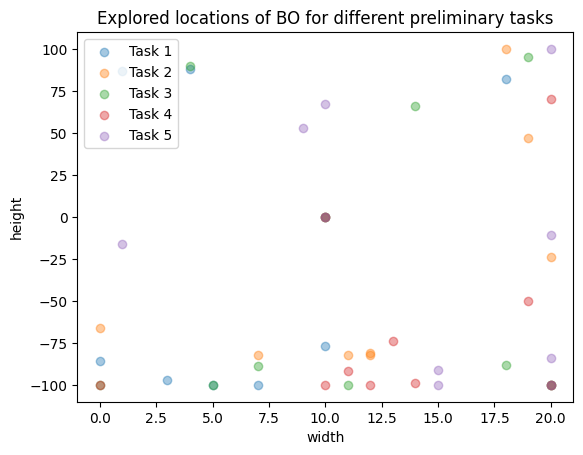
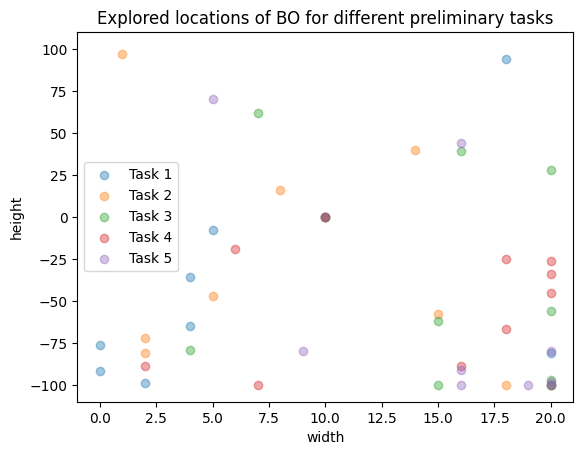
Updates to transfer learning tutorial and adding references to it elsewhere in documentation.

diff --git a/docs/source/tutorials/transfer_learning/transfer_learning_example.py b/docs/source/tutorials/transfer_learning/transfer_learning_example.py
@@ -140,6 +140,7 @@ if __name__ == "__main__":
 
     mode = "min"
     max_trials = 10
+    np.random.seed(1)
     # Use train_height backend for our tests
     entry_point = "../../../../examples/training_scripts/height_example/train_height.py"
 
@@ -149,7 +150,7 @@ if __name__ == "__main__":
         scheduler = init_scheduler(
             "BayesianOptimization",
             max_steps=max_steps,
-            seed=max_steps,
+            seed=np.random.randint(100),
             mode=mode,
             metric=METRIC_ATTR,
             transfer_learning_evaluations=None,
@@ -213,6 +214,21 @@ if __name__ == "__main__":
     """ Plot the configs tried for the transfer task """
     fig, ax = plt.subplots()
 
+    # Plot the configs tried by the different schedulers on the transfer task
+    for label in labels:
+        scatter_space_exploration(
+            ax, transfer_task_results[label], max_trials, label, color=colours[label]
+        )
+
+        # Plot the first config tested as a big square
+        ax.scatter(
+            transfer_task_results[label]["width"][0],
+            transfer_task_results[label]["height"][0],
+            marker="s",
+            color=colours[label],
+            s=100,
+        )
+
     # Plot the optima from the preliminary tasks as black crosses
     past_label = "Preliminary optima"
     for key in transfer_learning_evaluations:
@@ -227,20 +243,5 @@ if __name__ == "__main__":
             label=past_label,
         )
         past_label = None
-
-    # Plot the configs tried by the different schedulers on the transfer task
-    for label in labels:
-        scatter_space_exploration(
-            ax, transfer_task_results[label], max_trials, label, color=colours[label]
-        )
-        # Plot the first config tested as a big square
-        ax.scatter(
-            transfer_task_results[label]["width"][0],
-            transfer_task_results[label]["height"][0],
-            marker="s",
-            color=colours[label],
-            s=100,
-        )
-
     add_labels(ax, scheduler.config_space, "Explored locations for transfer task")
     plt.savefig("Configs_explored_transfer.png", bbox_inches="tight")

diff --git a/docs/source/tutorials/transfer_learning/transfer_learning.rst b/docs/source/tutorials/transfer_learning/transfer_learning.rst
@@ -1,7 +1,7 @@
-Using syne-tune for transfer learning
+Using Syne Tune for transfer learning
 ======================================
 
-syne-tune can be used to perform transfer learning. In this tutorial we look at three transfer learning schedulers: `ZeroShotTransfer`, `BoundingBox` and `Quantiles`. We compare them to standard `BayesianOptimization`. We construct a set of tasks based on the height example. We first collect evaluations of five tasks, and then compare results on the sixth. We consider the single-fidelity case.
+Syne Tune can be used to perform transfer learning. In this tutorial we look at three transfer learning schedulers: `ZeroShotTransfer`, `BoundingBox` and `Quantiles`. We compare them to standard `BayesianOptimization`. We construct a set of tasks based on the height example. We first collect evaluations of five tasks, and then compare results on the sixth. We consider the single-fidelity case.
 
 In order to run our transfer learning schedulers we need to parse the output of the tuner into a dict of `TransferLearningTaskEvaluations`. We do this in the `extract_transferable_evaluations` function.
 
@@ -13,14 +13,14 @@ We start by collecting evaluations by running `BayesianOptimization` on five tas
 
 .. literalinclude:: transfer_learning_example.py
    :caption: transfer_learning_example.py
-   :lines: 79-161
+   :lines: 79-164
 
 
 Then we run different schedulers to compare on our transfer task with `max_steps=6`.
 
 .. literalinclude:: transfer_learning_example.py
    :caption: transfer_learning_example.py
-   :lines: 163-178
+   :lines: 166-181
 
 We plot the results on the transfer task. We see that the early performance of the transfer schedulers is much better than standard BO.
 
@@ -30,7 +30,7 @@ We plot the results on the transfer task. We see that the early performance of t
    
 .. literalinclude:: transfer_learning_example.py
    :caption: transfer_learning_example.py
-   :lines: 180-193
+   :lines: 183-196
    
 .. image:: Transfer_task.png
    :width: 768 px
@@ -39,7 +39,7 @@ We also look at the parts of the search space explored. First by looking at the 
 
 .. literalinclude:: transfer_learning_example.py
    :caption: transfer_learning_example.py
-   :lines: 195-209
+   :lines: 198-212
    
 .. image:: Configs_explored_preliminary.png
    :width: 768 px
@@ -48,7 +48,7 @@ Then we look at the explored search space for the transfer task. For all the tra
 
 .. literalinclude:: transfer_learning_example.py
    :caption: transfer_learning_example.py
-   :lines: 211-
+   :lines: 214-
    
 .. image:: Configs_explored_transfer.png
    :width: 768 px

diff --git a/docs/source/getting_started.rst b/docs/source/getting_started.rst
@@ -151,6 +151,8 @@ The following hyperparameter optimization (HPO) methods are available in Syne Tu
 +---------------------------------------------------------------------------------------+--------------------------------------------------------------------------------+---------------+---------------+-----------------+-----------+
 | RUSH (:class:`~syne_tune.optimizer.schedulers.transfer_learning.RUSHScheduler`)       | `Zappella, et al. (2021) <https://arxiv.org/abs/2103.16111>`_                  | random        | yes           | yes             | yes       |
 +---------------------------------------------------------------------------------------+--------------------------------------------------------------------------------+---------------+---------------+-----------------+-----------+
+| BoundingBox (:class:`~syne_tune.optimizer.schedulers.transfer_learning.BoundingBox`)  | `Perrone, et al. (2019) <https://arxiv.org/abs/1909.12552>`_                   | TODO          | TODO          | TODO            | yes       |
++---------------------------------------------------------------------------------------+--------------------------------------------------------------------------------+---------------+---------------+-----------------+-----------+
 
 The searchers fall into four broad categories, **deterministic**, **random**, **evolutionary** and **model-based**. The random searchers sample candidate hyperparameter configurations uniformly at random, while the model-based searchers sample them non-uniformly at random, according to a model (e.g., Gaussian process, density ration estimator, etc.) and an acquisition function. The evolutionary searchers make use of an evolutionary algorithm.
 

diff --git a/docs/source/tutorials/basics/basics_outlook.rst b/docs/source/tutorials/basics/basics_outlook.rst
@@ -46,3 +46,4 @@ experimental. Here is an incomplete overview:
   More details on multi-objective HPO and methodology adopted in Syne Tune can
   be found `here <https://arxiv.org/abs/2106.12639>`_, see also
   :class:`~syne_tune.optimizer.schedulers.multiobjective.MOASHA`.
+* **Transfer-learning Schedulers**: Syne Tune provides several transfer-learning schedulers. To get started check out `this tutorial <../transfer_learning/transfer_learning.html>`_.

diff --git a/docs/source/index.rst b/docs/source/index.rst
@@ -74,6 +74,7 @@ What's New?
    tutorials/benchmarking/README
    tutorials/developer/README
    tutorials/pasha/pasha
+   tutorials/transfer_learning/transfer_learning
 
 .. toctree::
    :name: API docs
